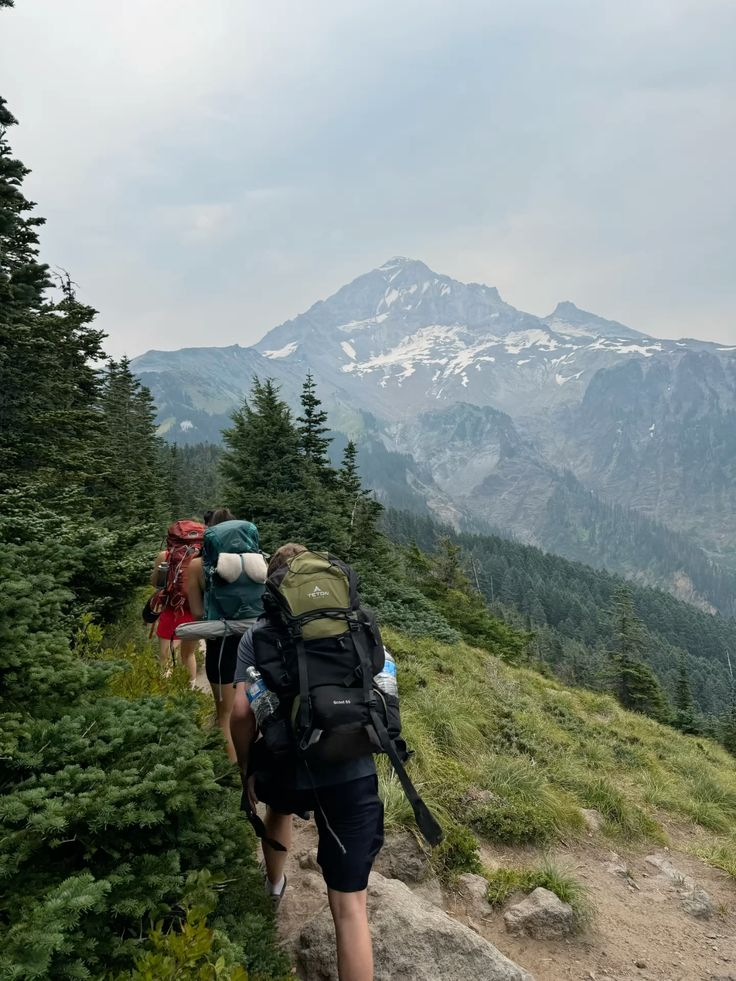
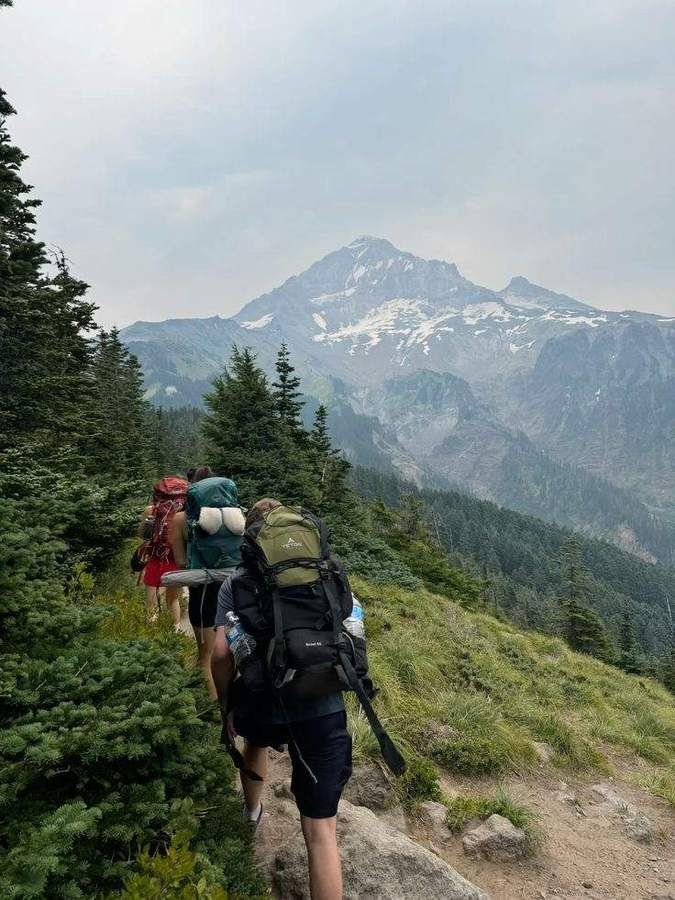
Фотографии вдвое легче, цена в карточке — один раз
Пункты 14 и 7 из разбора.

**Вес фотографий.** Все девять снимков пересжаты: 2,3 МБ → 1,2 МБ.
Ширина приведена к тому, как фото реально показывается (галерея 1400 px,
карточки 1100 px, вкладки 900 px по большей стороне) — раньше в
репозитории лежали кадры до 2200 px, которые браузер всё равно ужимал.
Качество подбиралось под бюджет по каждому файлу отдельно, с проверкой
глазами: под тёмным градиентом hero разницы не видно.

Второй кадр галереи больше не грузится параллельно с первым экраном: он
нужен только на пятой секунде, поэтому подтягивается через секунду после
события load. Первый экран теперь весит 194 КБ вместо 993 КБ.

Отдельная история — 02-elche.jpg: пальмовый сад из тысяч мелких листьев
не сжимается ни при каком качестве, 348 КБ. Такой кадр лучше заменить,
чем давить дальше; записано в docs/PHOTOS.md.

**Цена в карточках.** Убран бейдж с ценой поверх фотографии: то же число
стояло строкой ниже, уже с оговорками («с человека», «группа от 10»,
«вход включён»). Осталась одна цена — та, что с оговорками.

Требования к новым фотографиям в docs/PHOTOS.md переписаны под реальные
размеры.

Проверено в Chromium на 390 и 1440px: первый экран грузит один файл на
194 КБ, второй слайд успевает появиться до переключения, бейджей в
карточках не осталось, цены на месте, ошибок в консоли нет.

Claude-Session: https://claude.ai/code/session_01UM1WbA4aZLjBgkCGh8NrSg

diff --git a/public/index.html b/public/index.html
@@ -447,6 +447,9 @@
     background-image:var(--photo, none), var(--fallback, var(--wave-gradient));
     background-size:cover; background-position:center; background-repeat:no-repeat;
   }
+  /* Бейдж поверх фотографии карточки. Цену туда не кладём — она стоит
+     в теле карточки вместе с оговорками («с человека», «группа от 10»),
+     а два одинаковых числа в одной карточке только сбивают. */
   .card-media span{
     position:absolute; top:12px; left:12px; background:rgba(0,0,0,0.35); color:#fff;
     font-size:0.7rem; letter-spacing:0.06em; text-transform:uppercase; padding:5px 10px; border-radius:999px;
@@ -1057,7 +1060,7 @@
     </div>
     <div class="cards">
       <div class="card">
-        <div class="card-media" data-photo="assets/hero/exc1.jpg" style="--fallback:linear-gradient(135deg,#c0466b,#e08a3f);"><span lang-es>desde 18 € / persona</span><span lang-en>from €18 / person</span><span lang-ru>от 18 € / чел.</span></div>
+        <div class="card-media" data-photo="assets/hero/exc1.jpg" style="--fallback:linear-gradient(135deg,#c0466b,#e08a3f);"></div>
         <div class="card-body">
           <h3>Castillo de Santa Bárbara</h3>
           <p><span lang-es>Visita guiada con vistas panorámicas de la bahía de Alicante.</span><span lang-en>Guided visit with panoramic views over Alicante bay.</span><span lang-ru>Экскурсия с гидом и панорамным видом на бухту Аликанте.</span></p>
@@ -1065,7 +1068,7 @@
         </div>
       </div>
       <div class="card">
-        <div class="card-media" data-photo="assets/hero/exc2.jpg" style="--fallback:linear-gradient(135deg,#e08a3f,#1c8a86);"><span lang-es>desde 15 € / persona</span><span lang-en>from €15 / person</span><span lang-ru>от 15 € / чел.</span></div>
+        <div class="card-media" data-photo="assets/hero/exc2.jpg" style="--fallback:linear-gradient(135deg,#e08a3f,#1c8a86);"></div>
         <div class="card-body">
           <h3><span lang-es>Casco Antiguo</span><span lang-en>Old Town Walk</span><span lang-ru>Старый город</span></h3>
           <p><span lang-es>Recorrido a pie por el Barrio de Santa Cruz y la Explanada.</span><span lang-en>Walking route through Santa Cruz quarter and the Explanada.</span><span lang-ru>Пешая прогулка по кварталу Санта-Крус и набережной Эспланада.</span></p>
@@ -1073,7 +1076,7 @@
         </div>
       </div>
       <div class="card">
-        <div class="card-media" data-photo="assets/hero/exc3.jpg" style="--fallback:linear-gradient(135deg,#1c8a86,#1d4d84);"><span lang-es>desde 12 € / persona</span><span lang-en>from €12 / person</span><span lang-ru>от 12 € / чел.</span></div>
+        <div class="card-media" data-photo="assets/hero/exc3.jpg" style="--fallback:linear-gradient(135deg,#1c8a86,#1d4d84);"></div>
         <div class="card-body">
           <h3>MARQ</h3>
           <p><span lang-es>Museo Arqueológico de Alicante, entrada y visita guiada.</span><span lang-en>Alicante Archaeological Museum, entry and guided tour.</span><span lang-ru>Археологический музей Аликанте: билет и экскурсия с гидом.</span></p>
@@ -1502,7 +1505,11 @@
   }
 
   var heroEl = document.getElementById('hero');
-  loadPhoto(slides[1]);
+  /* Второй кадр нужен только через 5 секунд, поэтому не отнимаем канал
+     у первого экрана: ждём окончания загрузки страницы и ещё секунду. */
+  function preloadSecondSlide(){ setTimeout(function(){ loadPhoto(slides[1]); }, 1000); }
+  if(document.readyState === 'complete'){ preloadSecondSlide(); }
+  else { window.addEventListener('load', preloadSecondSlide); }
   restartGallery();
 
   /* ---------- Buscador del hero / hero search ---------- */

diff --git a/docs/DESIGN.md b/docs/DESIGN.md
@@ -133,8 +133,13 @@ RU, `es*` → ES, остальные → EN). Поэтому классы язы
 
 ## Загрузка фотографий
 
-Сразу грузится только первый кадр галереи (он же в `<link rel=preload>`),
-второй подтягивается фоном, остальные — при переключении слайда.
+Сразу грузится только первый кадр галереи (он же в `<link rel=preload>`).
+Второй подтягивается через секунду после события `load` — он нужен лишь
+на пятой секунде, и незачем отнимать канал у первого экрана. Остальные —
+при переключении слайда.
+
+Счёт на первом экране: 194 КБ вместо 993 КБ до этой правки и сжатия
+фотографий.
 Фотографии карточек и вкладок ждут приближения к экрану
 (`IntersectionObserver`, запас 400px). Адрес файла хранится в
 `data-photo`, скрипт переносит его в CSS-переменную `--photo`. Если
